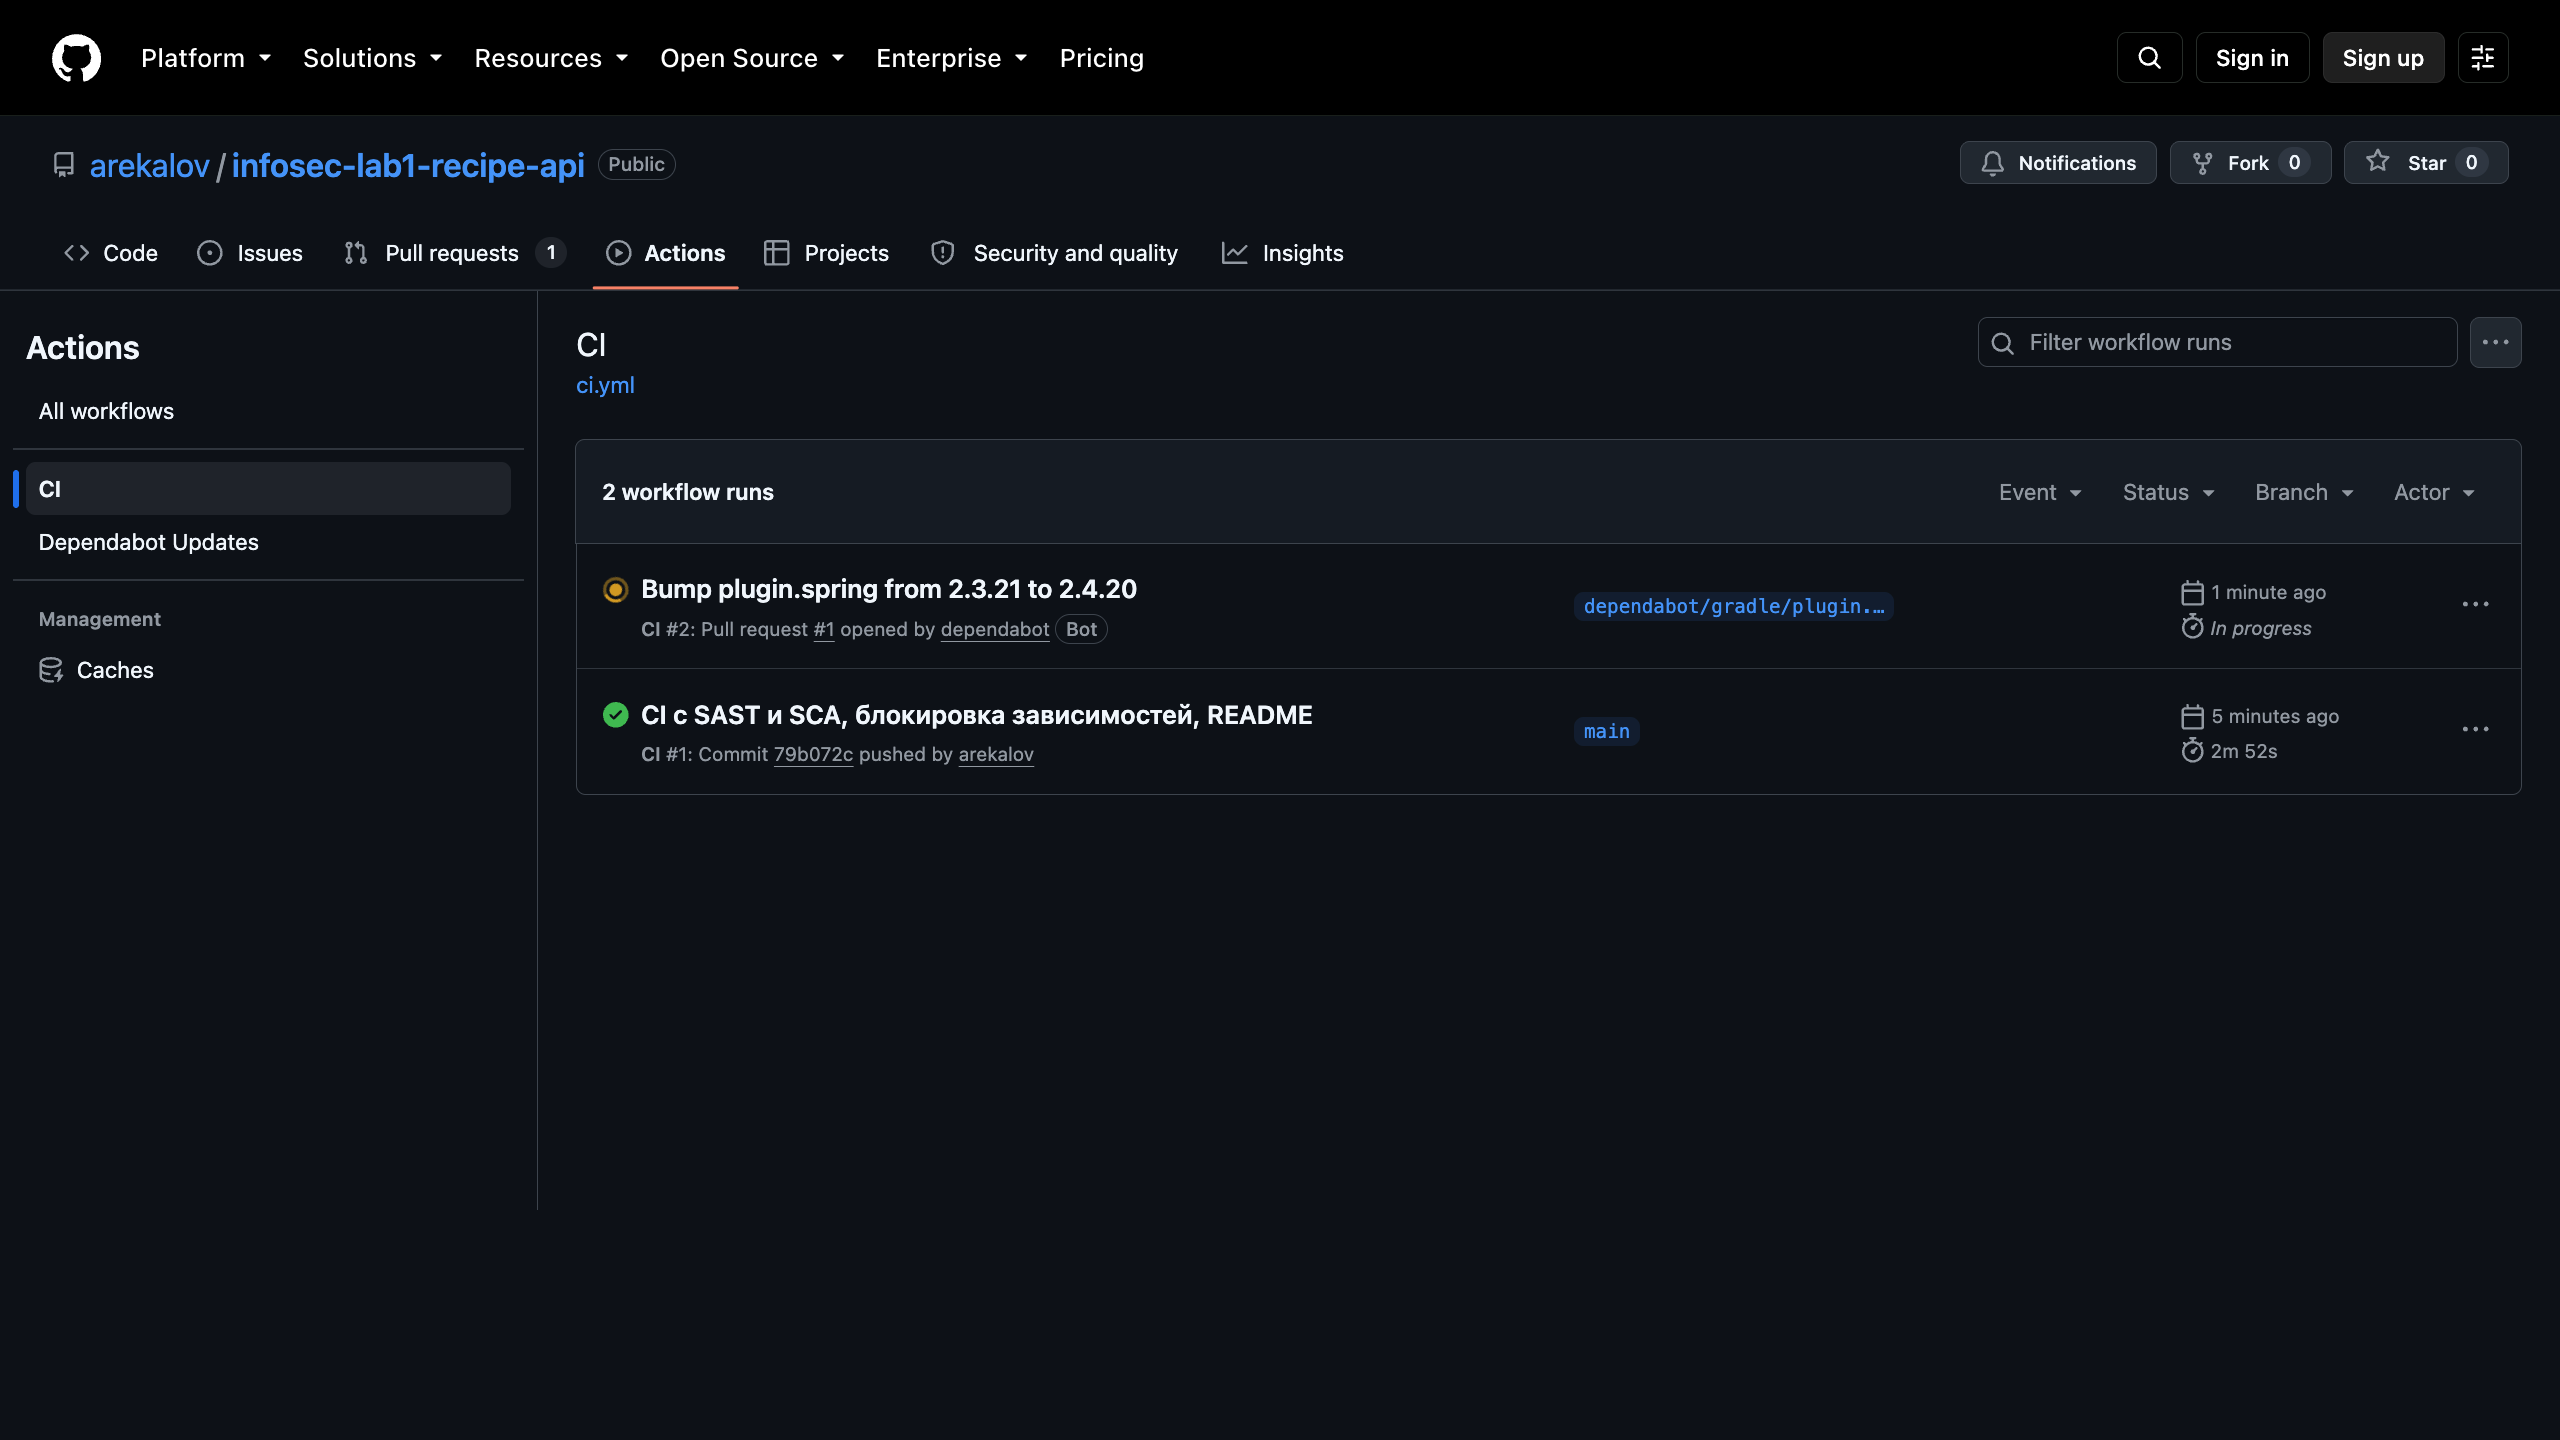
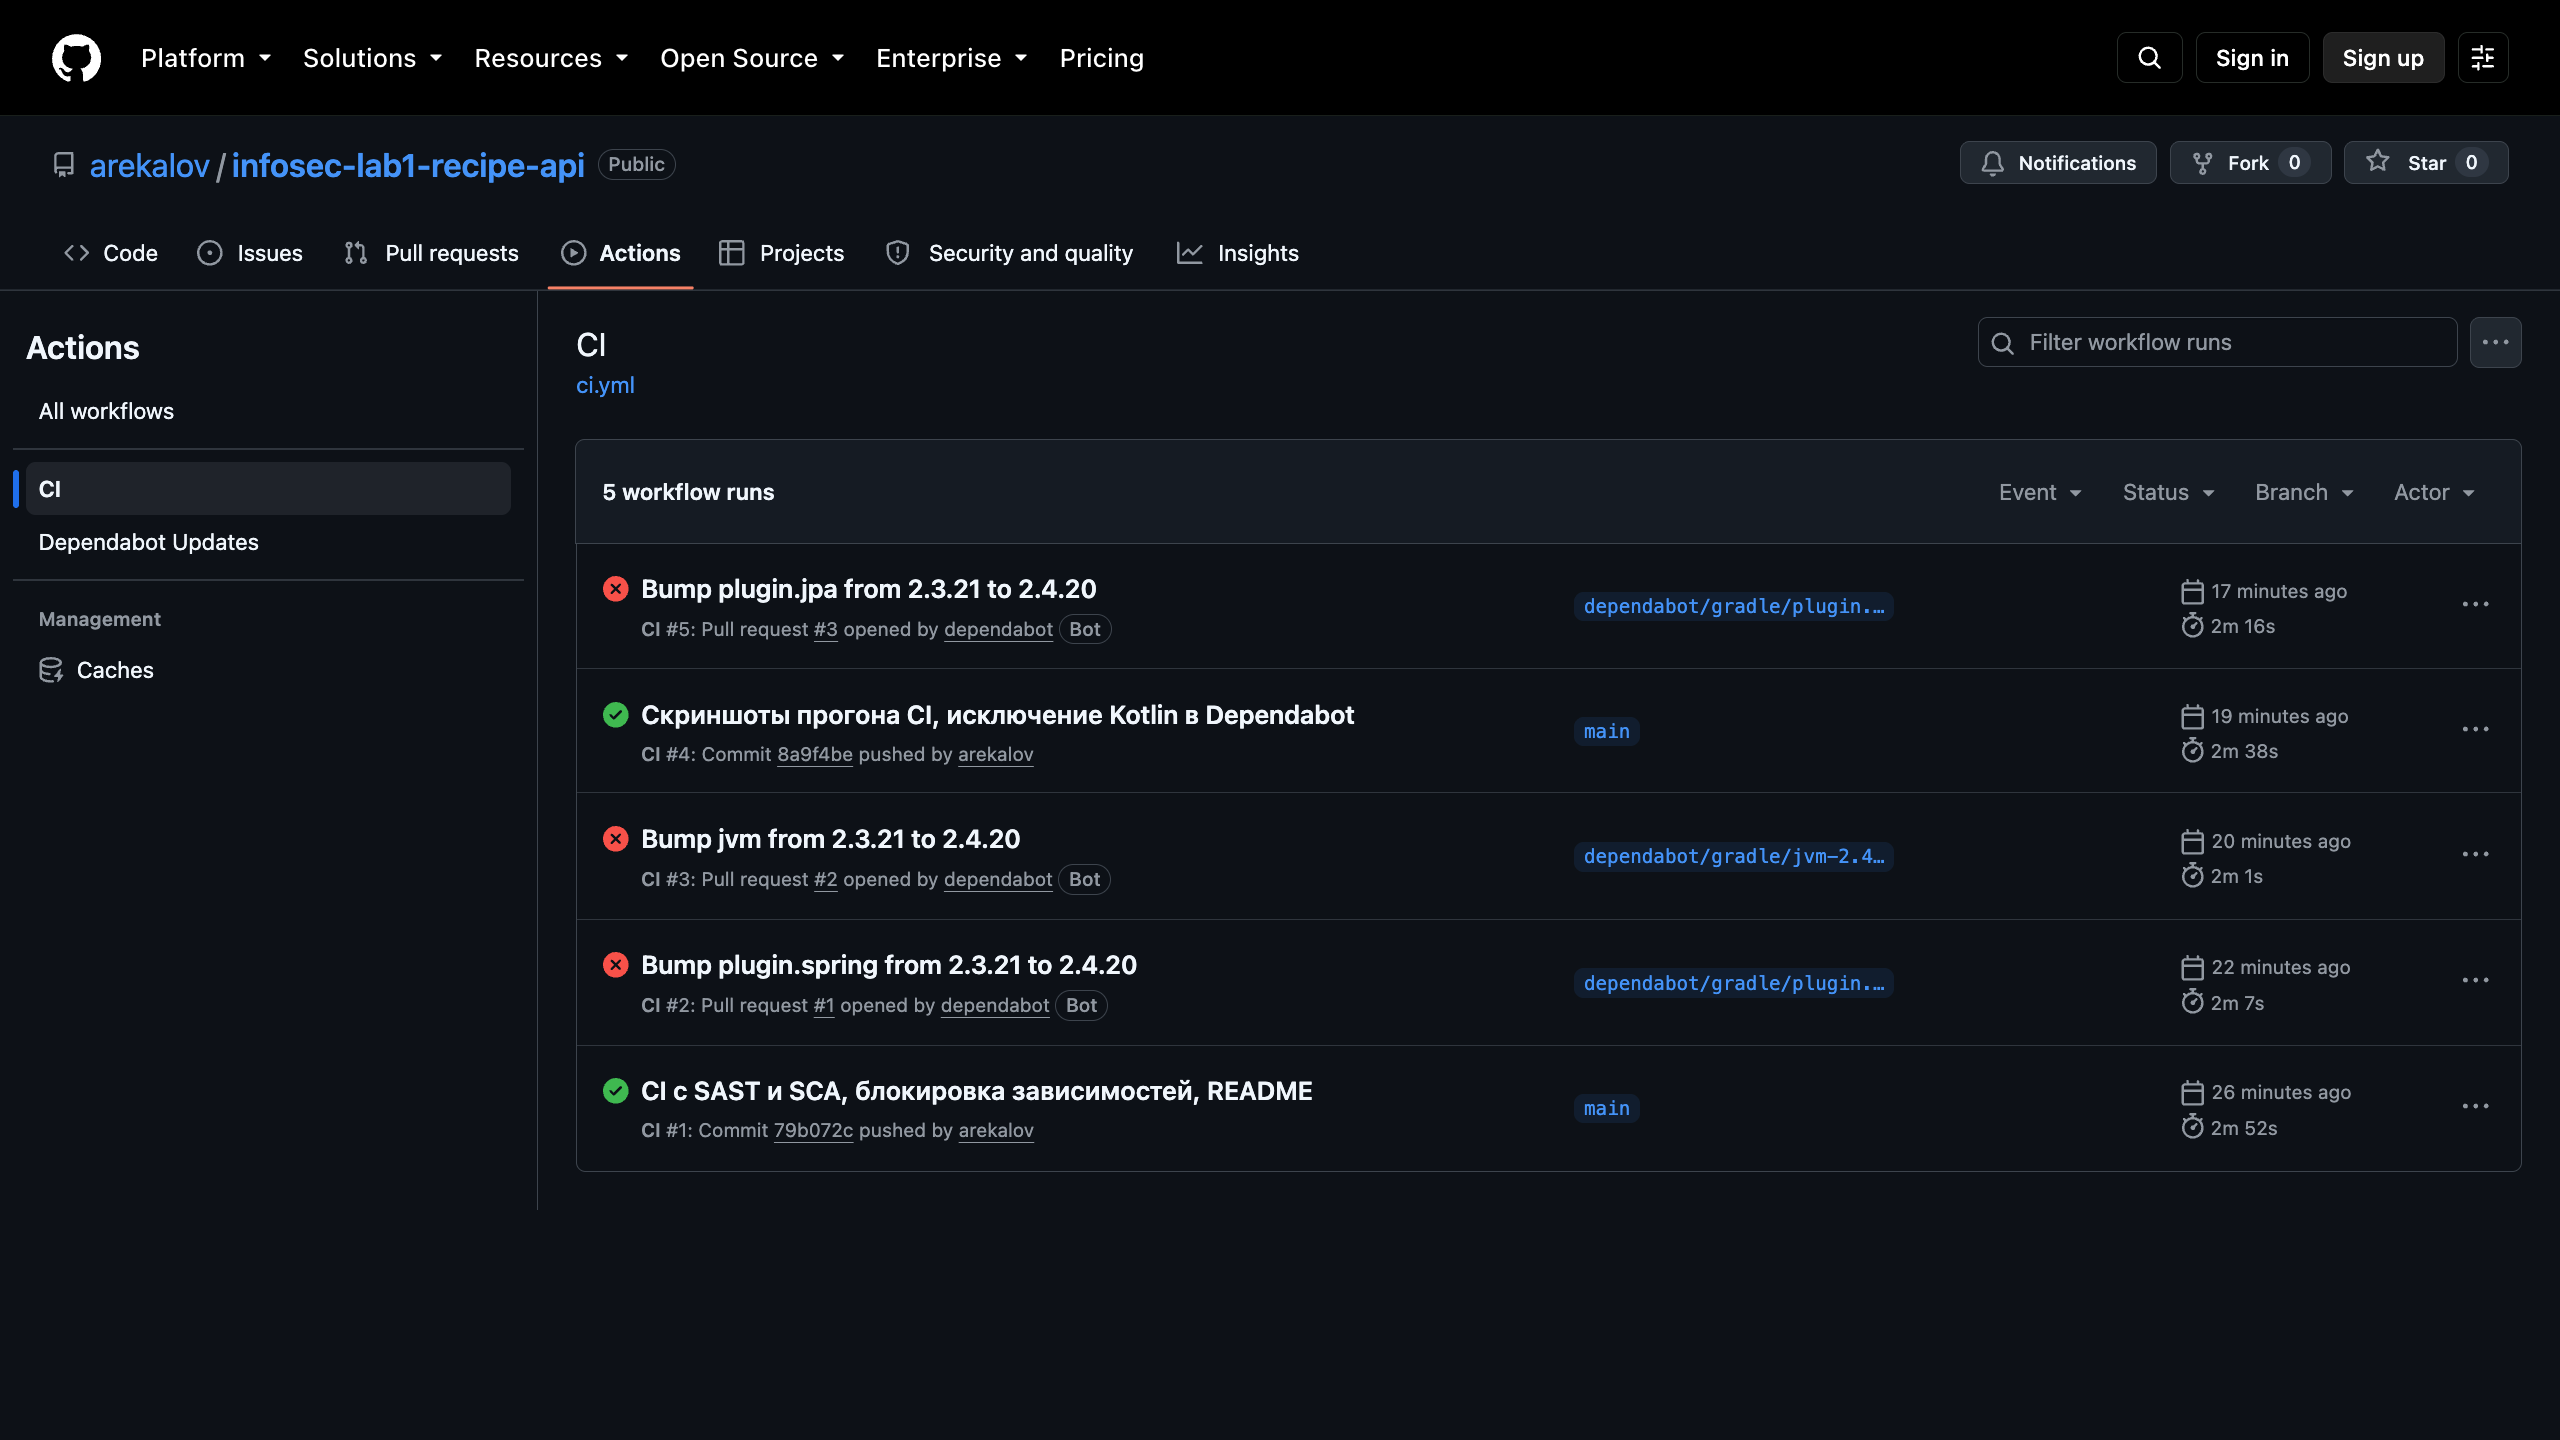
Финальный скриншот списка прогонов CI

diff --git a/README.md b/README.md
@@ -502,9 +502,9 @@ uses: actions/checkout@3d3c42e5aac5ba805825da76410c181273ba90b1 # v7.0.1
 
 ### Дополнительно: CI поймал реальную проблему
 
-Сразу после первого прогона Dependabot предложил поднять плагин Kotlin с 2.3.21 до 2.4.20,
-и CI на этом pull request упал. Причина содержательная: версия Kotlin задаётся BOM'ом
-Spring Boot, `kotlin-stdlib` приходит оттуда же и зафиксирован в `gradle.lockfile` —
+Сразу после первого прогона Dependabot открыл три pull request, поднимающих плагины Kotlin
+с 2.3.21 до 2.4.20, — и CI упал на каждом. Причина содержательная: версия Kotlin задаётся
+BOM'ом Spring Boot, `kotlin-stdlib` приходит оттуда же и зафиксирован в `gradle.lockfile` —
 поднимать компилятор в отрыве от Spring Boot нельзя.
 
 Это ровно то, ради чего pipeline и нужен: изменение, выглядевшее рутинным обновлением,
